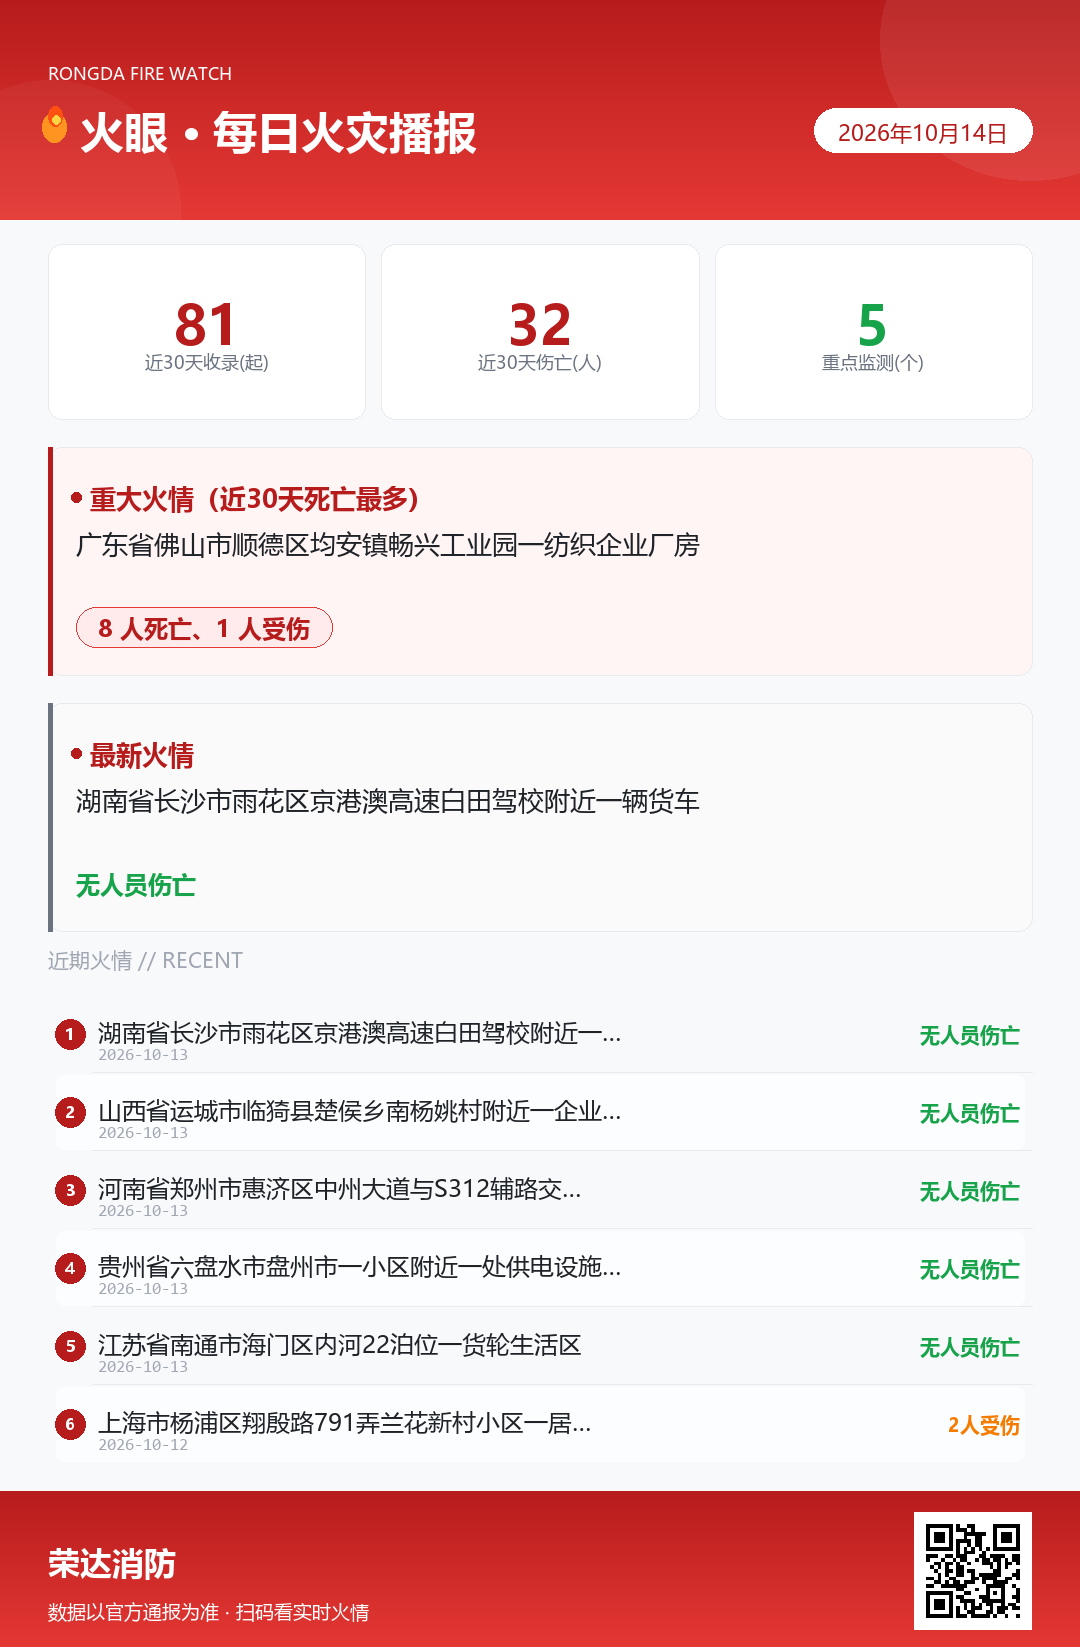
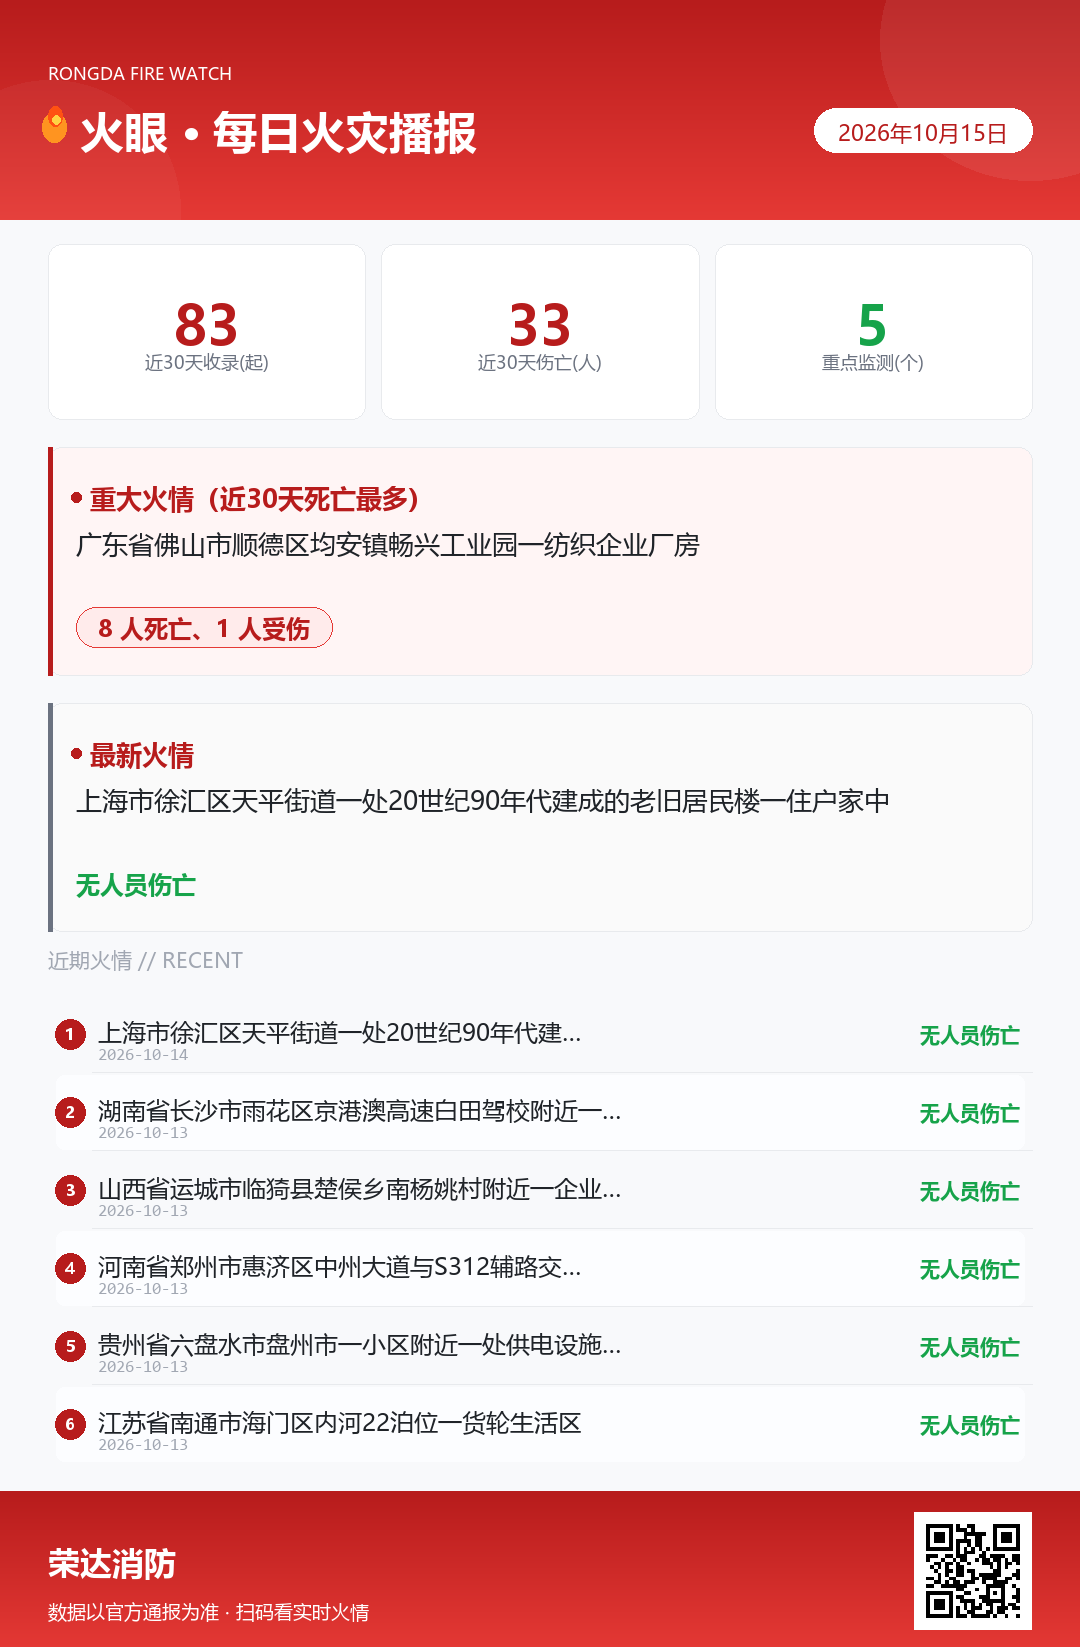
fire-daily-brief 2026-10-15 16:13 roll

diff --git a/index.html b/index.html
@@ -435,15 +435,15 @@
 <!-- ============ DATA（每日自动更新：由自动化脚本重写此对象） ============ -->
 <script id="brief-data" type="application/json">
 {
-  "date": "2026年10月14日",
-  "compileTime": "2026-10-14 07:07",
+  "date": "2026年10月15日",
+  "compileTime": "2026-10-15 15:58",
   "source": "AI 联网检索 · 各地消防救援机构官方通报及权威媒体转载",
   "range": "滚动更新 · 近 30 天",
   "stats": {
     "noReportRegions": 5,
     "rangeLabel": "近30天"
   },
-  "jiangxi": "有官方通报（7·12 南昌居民楼楼道电动车「飞线充电」火情、7·29 上饶玉山县居民楼液化气罐泄漏爆炸1死1伤、8·2 赣州南康工业园工厂刨花房起火、8·2 南昌某小区7楼阳台烟头引燃杂物起火（无伤亡）、8·4 吉安民房柴房火灾、8·6 萍乡一小轿车停放家门口起火（无伤亡）、8·13 吉安市赣江上一船只起火（疑因电池，无伤亡）、8·12 赣州大余花生麸自燃、8·16 南昌小区杂物间起火、8·18 南昌青云谱「网红」麻将馆自动麻将机电气线路故障起火（无伤亡、8·30 宜春经开区江西远东电池电芯老化检测车间火灾（无人员伤亡，1个厂房设备部分受损）、8·28 南昌一餐厅后厨起火（消防自动喷淋系统及时启动扑灭，无人员伤亡）、8·28 吉安市泰和县一民房（祭祀用火不慎，过火约90平方米，无人员伤亡）、9·3 赣州南康区一工厂刨花房突然起火（无人员伤亡，园区微型消防站与员工协力扑救，约5分钟消防到场扑灭）、9·10 萍乡市芦溪县银河镇某村牛棚火灾（疑烟头引燃，无伤亡）、9·10 莲花县坊楼镇某村茶厂操作间起火（用火不当，无伤亡）、9·11 萍乡市开发区福田镇某村居民柴房起火（用火不慎，无伤亡）、9·12 宜春丰城市河洲街道太阳社区杨打垅村一民房火灾（造成3人死亡、1人受伤，宜春市政府已成立“9·12”较大火灾事故调查组）、9·17 南昌市青山湖区顺外路一辆半挂货车起火（凌晨4时40分左右，车上装载硬纸类易燃物，消防到场约半小时扑灭，无人员伤亡）、9·27 赣州大余县南安镇一民房火灾（楼道堆放杂物致2人被困，架拉梯救出，无人员伤亡）、10·10 南昌市青山湖区东华大道428号一厂区室外独立电动车停车棚起火（无人员伤亡））",
+  "jiangxi": "有官方通报（7·12 南昌居民楼楼道电动车「飞线充电」火情、7·29 上饶玉山县居民楼液化气罐泄漏爆炸1死1伤、8·2 赣州南康工业园工厂刨花房起火、8·2 南昌某小区7楼阳台烟头引燃杂物起火（无伤亡）、8·4 吉安民房柴房火灾、8·6 萍乡一小轿车停放家门口起火（无伤亡）、8·13 吉安市赣江上一船只起火（疑因电池，无伤亡）、8·12 赣州大余花生麸自燃、8·16 南昌小区杂物间起火、8·18 南昌青云谱「网红」麻将馆自动麻将机电气线路故障起火（无伤亡、8·30 宜春经开区江西远东电池电芯老化检测车间火灾（无人员伤亡，1个厂房设备部分受损）、8·28 南昌一餐厅后厨起火（消防自动喷淋系统及时启动扑灭，无人员伤亡）、8·28 吉安市泰和县一民房（祭祀用火不慎，过火约90平方米，无人员伤亡）、9·3 赣州南康区一工厂刨花房突然起火（无人员伤亡，园区微型消防站与员工协力扑救，约5分钟消防到场扑灭）、9·10 萍乡市芦溪县银河镇某村牛棚火灾（疑烟头引燃，无伤亡）、9·10 莲花县坊楼镇某村茶厂操作间起火（用火不当，无伤亡）、9·11 萍乡市开发区福田镇某村居民柴房起火（用火不慎，无伤亡）、9·12 宜春丰城市河洲街道太阳社区杨打垅村一民房火灾（造成3人死亡、1人受伤，宜春市政府已成立“9·12”较大火灾事故调查组）、9·17 南昌市青山湖区顺外路一辆半挂货车起火（凌晨4时40分左右，车上装载硬纸类易燃物，消防到场约半小时扑灭，无人员伤亡）、9·27 赣州大余县南安镇一民房火灾（楼道堆放杂物致2人被困，架拉梯救出，无人员伤亡）、10·8 九江市一处草纸批发店仓库火灾（违规电焊焊渣引燃堆放草纸，无伤亡，过火近300㎡）、10·10 南昌市青山湖区东华大道428号一厂区室外独立电动车停车棚起火（无人员伤亡））",
   "megacities": [
     {
       "name": "北京市",
@@ -451,11 +451,11 @@
     },
     {
       "name": "上海市",
-      "status": "有官方通报（7·28/7·31 多起居民楼起火、8·4 闵行中春路单位建筑起火、8·7 虹口新市南路小区非机动车起火、8·10 浦东万安街路边车辆起火、8·17 G2京沪高速面包车起火、8·19 青浦盈浦街道居民顶楼起火、8·19 G1503绕城高速集卡追尾起火、8·28 浦东张江松涛路单位实验室起火、8·30 松江车墩镇松南城善德苑小区居民家中起火（无伤亡、9·1 凌晨浦东新区一社区居民楼6楼火情（2人送医）、9·1 杨浦新江湾城时代花园小区居民楼起火（无伤亡；9·1 松江区明中苑小区室外非机动车停车区域多辆非机动车烧毁（无伤亡、9·7 杨浦区殷行路近军工路小区垃圾房起火（无伤亡）、9·18 松江区泗泾镇方泗公路一辆新能源车追尾后起火燃烧（无人员伤亡）、9·28 浦东新区高青路一小区室外非机动车停车棚起火，多辆非机动车烧毁（无伤亡）、9·29 静安区天通庵路一工地内仓库起火（无伤亡）、9·29 崧泽高架平板牵引车起火（无伤亡）、10·9 宝山区上海大学南区学生公寓一女生宿舍起火（无人员伤亡）、10·9 青浦区城中西路一居民楼顶楼民宅起火（无人员伤亡报告））、10·12 杨浦区翔殷路791弄兰花新村小区一居民家中起火（2人送医，情况稳定）"
+      "status": "有官方通报（7·28/7·31 多起居民楼起火、8·4 闵行中春路单位建筑起火、8·7 虹口新市南路小区非机动车起火、8·10 浦东万安街路边车辆起火、8·17 G2京沪高速面包车起火、8·19 青浦盈浦街道居民顶楼起火、8·19 G1503绕城高速集卡追尾起火、8·28 浦东张江松涛路单位实验室起火、8·30 松江车墩镇松南城善德苑小区居民家中起火（无伤亡、9·1 凌晨浦东新区一社区居民楼6楼火情（2人送医）、9·1 杨浦新江湾城时代花园小区居民楼起火（无伤亡；9·1 松江区明中苑小区室外非机动车停车区域多辆非机动车烧毁（无伤亡、9·7 杨浦区殷行路近军工路小区垃圾房起火（无伤亡）、9·18 松江区泗泾镇方泗公路一辆新能源车追尾后起火燃烧（无人员伤亡）、9·28 浦东新区高青路一小区室外非机动车停车棚起火，多辆非机动车烧毁（无伤亡）、9·29 静安区天通庵路一工地内仓库起火（无伤亡）、9·29 崧泽高架平板牵引车起火（无伤亡）、10·9 宝山区上海大学南区学生公寓一女生宿舍起火（无人员伤亡）、10·9 青浦区城中西路一居民楼顶楼民宅起火（无人员伤亡报告））、10·12 杨浦区翔殷路791弄兰花新村小区一居民家中起火（2人送医，情况稳定、10·14 徐汇区天平街道一老式居民楼凌晨火情（充电宝故障热失控，无伤亡））"
     },
     {
       "name": "广州市",
-      "status": "有官方通报（7·12 酒店广告牌火情、8·24 天河区广州大道中一仓库火灾（无伤亡、8·28 荔湾区西华路一民房火灾（无人员伤亡，12人疏散；9·5 天河区天河南一路天河城顶部火情（暂未收到人员伤亡报告、9·24 白云区人和镇同富路 13 号一厂房火灾（无人员伤亡，明火当晚 21 时 58 分扑灭）、10·7 一出租屋电动自行车蓄电池入户充电热失控起火（无人员伤亡，当事人被行政拘留））"
+      "status": "有官方通报（7·12 酒店广告牌火情、8·24 天河区广州大道中一仓库火灾（无伤亡、8·28 荔湾区西华路一民房火灾（无人员伤亡，12人疏散；9·5 天河区天河南一路天河城顶部火情（暂未收到人员伤亡报告、9·24 白云区人和镇同富路 13 号一厂房火灾（无人员伤亡，明火当晚 21 时 58 分扑灭）、10·7 一出租屋电动自行车蓄电池入户充电热失控起火（无人员伤亡，当事人被行政拘留）、10·10 增城区新塘镇一自建房火灾（室内电动车充电引发，无伤亡，当事人被行政拘留10日））"
     },
     {
       "name": "深圳市",
@@ -463,13 +463,13 @@
     }
   ],
   "case": {
-    "date": "2026-10-13",
-    "location": "湖南省长沙市雨花区京港澳高速白田驾校附近一辆货车",
-    "category": "交通枢纽",
-    "summary": "10 月 13 日凌晨，雨花区京港澳高速白田驾校附近发生一起货车起火事故，雨花区消防救援大队同升消防救援站迅速响应，接警后于 4 时 20 分抵达现场。经侦查，货车火势处于猛烈燃烧阶段并蔓延至货物，消防员分 3 组行动：灭火组使用两支水枪压制火势，供水组保障水源供应，警戒组配合高速交警实施交通管制并疏散围观车辆。4 时 45 分，明火被完全扑灭，随后消防人员持续冷却降温，确认无复燃风险后移交高速交警处理，现场无人员伤亡。目前，事故具体原因正在进一步调查中。",
+    "date": "2026-10-14",
+    "location": "上海市徐汇区天平街道一处20世纪90年代建成的老旧居民楼一住户家中",
+    "category": "住宅/民房",
+    "summary": "近日凌晨2时许，上海市徐汇区天平街道一处建于20世纪90年代的老旧居民楼一住户家中突发火情。起火住户家中堆放不少杂物，楼道很快涌出大量浓烟；因该楼栋此前已完成消防实事改造，楼道喷淋自动启动压制烟气，起火房间住户已先行疏散至一楼。天平消防救援站到场后迅速锁定火点出水灭火，并对客厅杂物区域全覆盖翻查、持续用喷淋降温排烟，防止火势向邻户蔓延，未造成人员伤亡。经消防部门初步勘查，起火原因为家中未充电状态的充电宝电芯故障热失控。",
     "casualty": "无人员伤亡",
-    "cause": "起火原因正在进一步调查中",
-    "src": "长沙晚报（2026-10-14）/ 雨花区消防救援大队"
+    "cause": "充电宝（未充电状态）电芯故障热失控",
+    "src": "徐汇区消防救援支队 / 腾讯新闻（2026-10-14 发布，发布日归档）"
   },
   "tips": [
     "电动车和电池别进楼：广州10月7日一出租屋室内给电池充电热失控，北京朝阳10月5日一小区充电柜锂电池热失控，南昌青山湖10月10日一厂区电动车棚被烧。电池放集中点充、不过夜、鼓包发烫马上停用。",
@@ -488,6 +488,15 @@
     "媒体转载内容均注明原始官方来源。"
   ],
   "history": [
+    {
+      "date": "2026-10-14",
+      "location": "上海市徐汇区天平街道一处20世纪90年代建成的老旧居民楼一住户家中",
+      "category": "住宅/民房",
+      "summary": "近日凌晨2时许，上海市徐汇区天平街道一处建于20世纪90年代的老旧居民楼一住户家中突发火情。起火住户家中堆放不少杂物，楼道很快涌出大量浓烟；因该楼栋此前已完成消防实事改造，楼道喷淋自动启动压制烟气，起火房间住户已先行疏散至一楼。天平消防救援站到场后迅速锁定火点出水灭火，并对客厅杂物区域全覆盖翻查、持续用喷淋降温排烟，防止火势向邻户蔓延，未造成人员伤亡。经消防部门初步勘查，起火原因为家中未充电状态的充电宝电芯故障热失控。",
+      "casualty": "无人员伤亡",
+      "cause": "充电宝（未充电状态）电芯故障热失控",
+      "src": "徐汇区消防救援支队 / 腾讯新闻（2026-10-14 发布，发布日归档）"
+    },
     {
       "date": "2026-10-13",
       "location": "湖南省长沙市雨花区京港澳高速白田驾校附近一辆货车",
@@ -532,6 +541,15 @@
       "casualty": "无人员伤亡",
       "cause": "货轮生活区内冰箱线路短路",
       "src": "南通市海门区人民政府（2026-10-14）"
+    },
+    {
+      "date": "2026-10-13",
+      "location": "中国香港九龙慈云山慈正村一高层住宅（24层）一单元",
+      "category": "住宅/民房",
+      "summary": "10月13日清晨，中国香港九龙慈云山慈正村一栋高层住宅24层一单元突发火情，约250名住户紧急疏散。起火单元住着一家三代四口，70岁男户主面部烧伤，需佩戴面罩送医治疗，其他住户暂无大碍。香港消防接报后迅速到场将火势扑灭。据初步了解，此次火情疑因充电宝过热起火引发。消防部门提醒：充电宝在碰撞、挤压、高温、过度充电等情况下，破损或不合格产品易内部短路、冒烟、起火甚至爆炸。",
+      "casualty": "1人受伤（70岁男户主面部烧伤送医）",
+      "cause": "疑充电宝过热起火（调查中）",
+      "src": "看看新闻Knews、广东消防（2026-10-15）/ 香港消防"
     },
     {
       "date": "2026-10-12",
@@ -615,6 +633,15 @@
       "src": "潇湘晨报（2026-10-13）/ 长沙市消防救援局"
     },
     {
+      "date": "2026-10-10",
+      "location": "广东省广州市增城区新塘镇一栋3层自住自建房",
+      "category": "住宅/民房",
+      "summary": "10月10日凌晨，广东省广州市增城区新塘镇一栋3层自住自建房发生火灾。现场监控显示，屋内先冒烟，一名男子打开门后多次传出爆燃声。经消防部门核查，火灾未造成人员伤亡，现场烧毁两台电动自行车、一台燃油摩托车，直接经济损失60500元；起火原因为屋主在不符合消防安全条件的室内场地停放电动自行车并充电。涉事屋主因过失引起火灾被公安机关依法行政拘留10日。消防部门提醒：电动自行车及电池严禁进楼入户，禁止在室内、疏散通道、楼梯间等区域停放和充电。",
+      "casualty": "无人员伤亡",
+      "cause": "屋主在室内违规停放电动自行车并充电引发（当事人被行政拘留10日）",
+      "src": "新京报、广州新塘镇政府通报（2026-10-14）"
+    },
+    {
       "date": "2026-10-09",
       "location": "上海市宝山区上海大学南区学生公寓4号楼一间女生宿舍",
       "category": "学校/教育机构",
@@ -658,6 +685,15 @@
       "casualty": "无人员伤亡",
       "cause": "火灾起因正在调查中",
       "src": "上观新闻·新民晚报（引消防部门）"
+    },
+    {
+      "date": "2026-10-08",
+      "location": "江西省九江市一处草纸批发店仓库",
+      "category": "仓储/物流",
+      "summary": "近日，江西省九江市一处草纸批发店仓库起火，过火面积近300平方米，未造成人员伤亡。涉事建筑为单层钢架结构、总建筑面积约2300平方米，房东将东北角约700平方米出租用作草纸批发仓库。事发当天上午9时许，电焊工刘某在现场焊接吊扇支架，作业至第三根支架时仓库冒烟；其与仓库经营者用灭火器扑灭明火后很快复燃，火势蔓延失控。经查，火灾系电焊作业操作不当、滴落焊渣引燃下方堆放草纸等可燃物所致；刘某所持焊接与热切割特种作业证已于2026年6月16日到期，属无证上岗，且动火作业未审批、周边可燃物未清理、现场无人监护。该建筑还存在无规划许可、未办理消防设计审核验收等消防设施严重缺失问题。",
+      "casualty": "无人员伤亡",
+      "cause": "违规电焊作业，焊渣引燃堆放草纸等可燃物（电焊工操作证过期、无证上岗）",
+      "src": "中国消防、九江消防（2026-10 发布，发布日归档）"
     },
     {
       "date": "2026-10-07",
